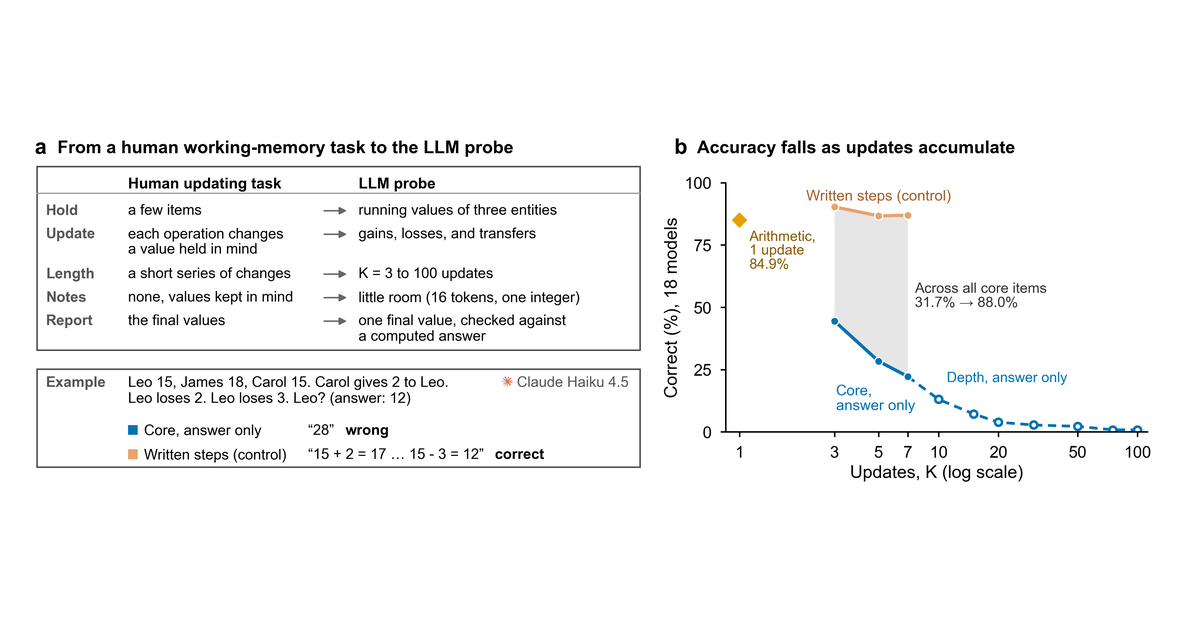
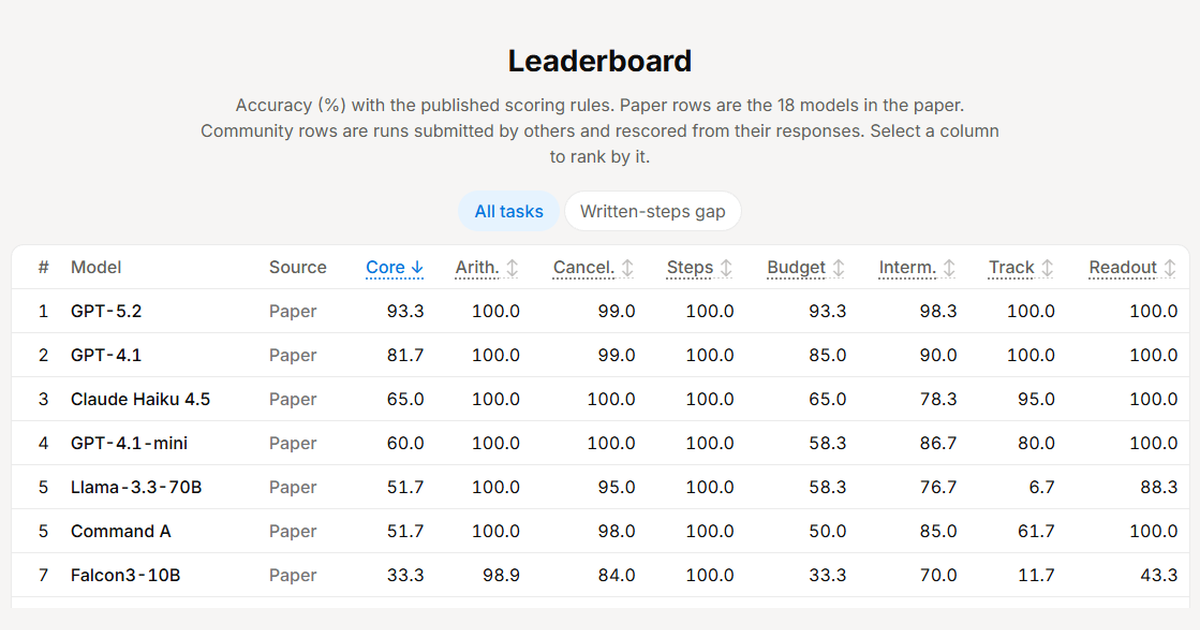
Use the leaderboard as the social preview image

diff --git a/site/index.html b/site/index.html
@@ -13,7 +13,7 @@
   <meta property="og:image" content="https://dengzhe-hou.github.io/WMIP/assets/social_preview.png">
   <meta property="og:image:width" content="1200">
   <meta property="og:image:height" content="630">
-  <meta property="og:image:alt" content="WMIP overview. Accuracy across 18 models falls as updates accumulate, from 84.9% on one-step arithmetic to 31.7% on core items, and no model exceeds 10% from 50 updates on.">
+  <meta property="og:image:alt" content="WMIP leaderboard. Accuracy of the 18 paper models on each task, ranked by core accuracy.">
   <meta name="twitter:card" content="summary_large_image">
   <meta name="twitter:image" content="https://dengzhe-hou.github.io/WMIP/assets/social_preview.png">
   <!-- Bibliographic metadata for scholarly search engines -->
